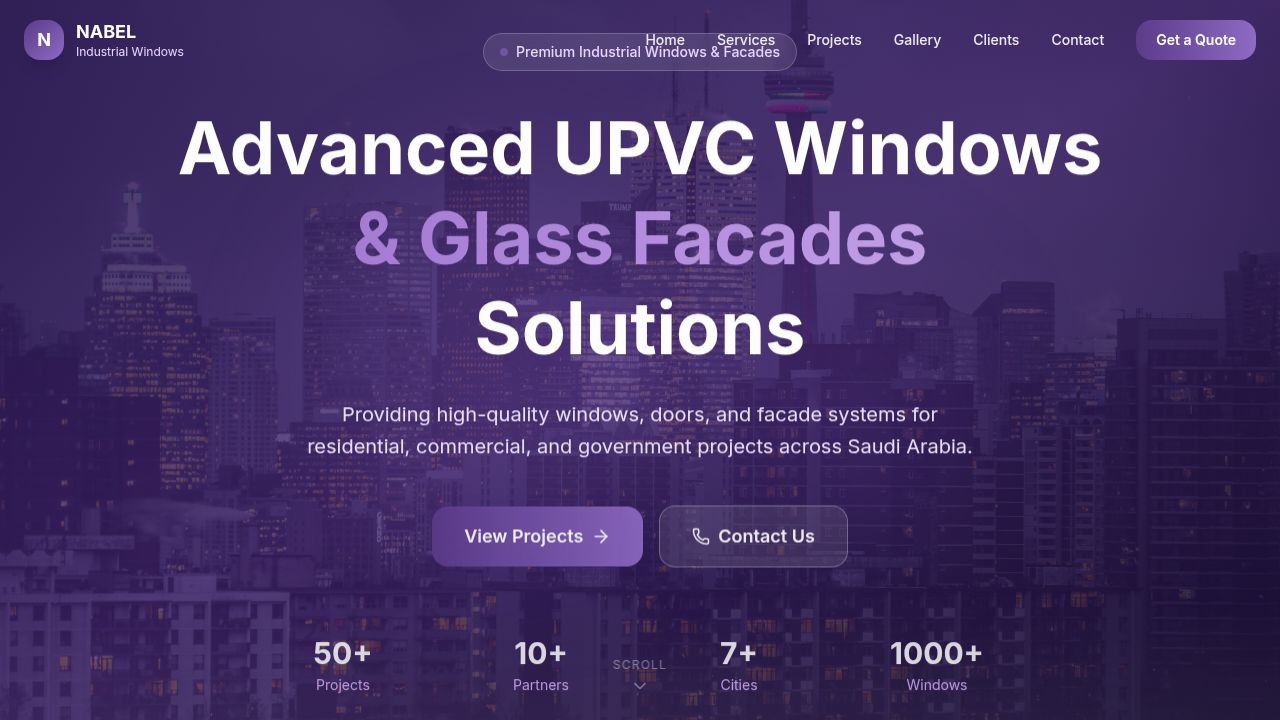
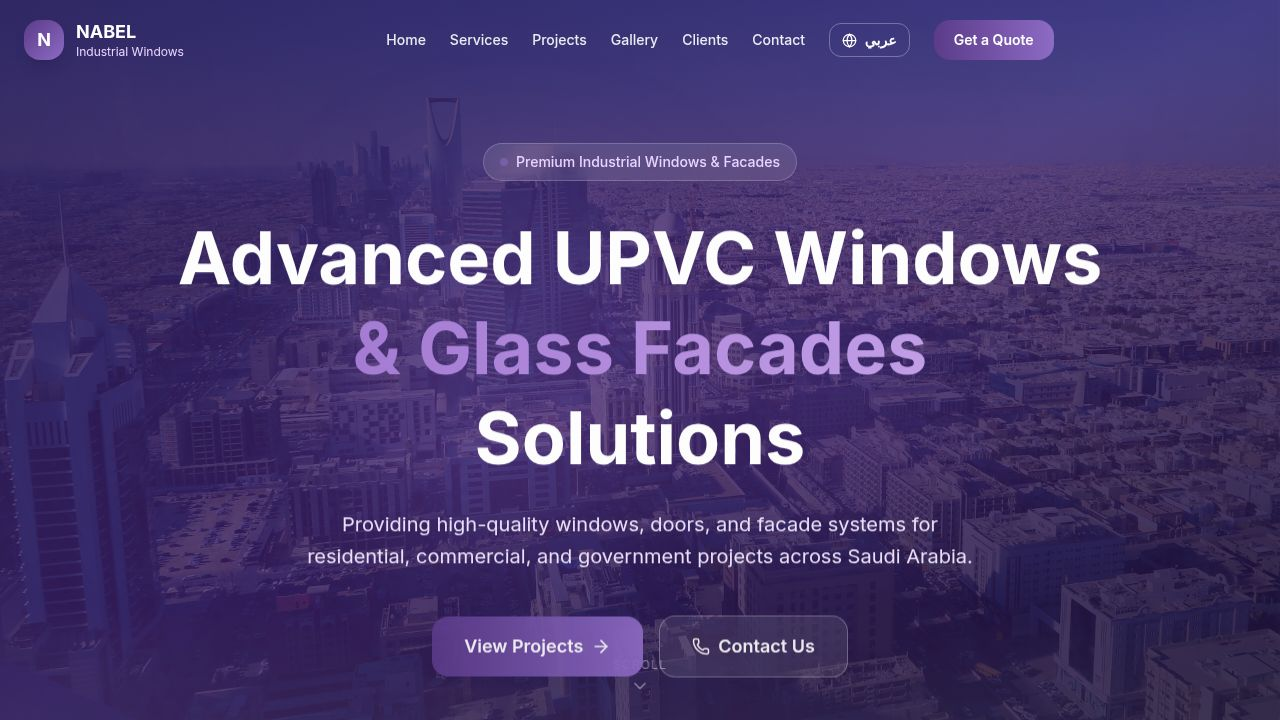
Update website layout and imagery for a cleaner, more professional look
Modify `Navbar` to center navigation links. Update `Hero` section to replace background image, add top padding, and remove number statistics. Remove emojis from city cards in the `Cities` component.

Replit-Commit-Author: Agent
Replit-Commit-Session-Id: 3ab8dfd2-0840-4d14-aedc-f2a046fb2de4
Replit-Commit-Checkpoint-Type: full_checkpoint
Replit-Commit-Event-Id: 5f990adb-1395-4c05-a3d8-47d8188dd6d3
Replit-Commit-Screenshot-Url: https://storage.googleapis.com/screenshot-production-us-central1/0cd7e872-7c5e-4611-9d01-ebfc5d7edf05/3ab8dfd2-0840-4d14-aedc-f2a046fb2de4/EVkSayx
Replit-Helium-Checkpoint-Created: true

diff --git a/artifacts/nabel-landing/src/components/Hero.tsx b/artifacts/nabel-landing/src/components/Hero.tsx
@@ -12,7 +12,7 @@ export default function Hero() {
       <div
         className="absolute inset-0 hero-bg"
         style={{
-          backgroundImage: `url('https://images.unsplash.com/photo-1486325212027-8081e485255e?w=1920&q=80')`,
+          backgroundImage: `url('https://images.unsplash.com/photo-1586724237569-f3d0c1dee8c6?w=1920&q=80')`,
         }}
       />
       <div className="absolute inset-0 bg-gradient-to-br from-[#2D1B55]/90 via-[#3D2068]/80 to-[#1a0f35]/90" />
@@ -20,7 +20,7 @@ export default function Hero() {
       <div className="absolute bottom-1/4 right-1/4 w-64 h-64 bg-[#5B3B8A]/30 rounded-full blur-3xl animate-float delay-500" />
       <div className="absolute inset-x-0 bottom-0 h-32 bg-gradient-to-t from-white/5 to-transparent" />
 
-      <div className="relative z-10 max-w-6xl mx-auto px-6 text-center">
+      <div className="relative z-10 max-w-6xl mx-auto px-6 pt-24 text-center">
         <div className="inline-flex items-center gap-2 px-4 py-2 rounded-full bg-white/10 backdrop-blur-sm border border-white/20 text-purple-200 text-sm font-medium mb-8 animate-fade-up">
           <span className="w-2 h-2 rounded-full bg-[#8E6BC4] animate-pulse" />
           {t("hero.badge")}
@@ -57,19 +57,7 @@ export default function Hero() {
           </a>
         </div>
 
-        <div className="mt-16 grid grid-cols-2 md:grid-cols-4 gap-6 max-w-3xl mx-auto animate-fade-up delay-500">
-          {[
-            { num: "50+", label: t("hero.stat.projects") },
-            { num: "10+", label: t("hero.stat.partners") },
-            { num: "7+",  label: t("hero.stat.cities") },
-            { num: "1000+", label: t("hero.stat.windows") },
-          ].map((s) => (
-            <div key={s.label} className="text-center">
-              <div className="text-3xl font-bold text-white">{s.num}</div>
-              <div className="text-purple-300 text-sm mt-1">{s.label}</div>
-            </div>
-          ))}
-        </div>
+
       </div>
 
       <a

diff --git a/artifacts/nabel-landing/src/components/Cities.tsx b/artifacts/nabel-landing/src/components/Cities.tsx
@@ -3,13 +3,13 @@ import { useIntersectionObserver } from "../hooks/useIntersectionObserver";
 import { useLang } from "../context/LanguageContext";
 
 const cities = [
-  { nameEn: "Riyadh",  nameAr: "الرياض",  count: 18, emoji: "🏙" },
-  { nameEn: "Al-Kharj", nameAr: "الخرج",   count: 8,  emoji: "🏘" },
-  { nameEn: "Jeddah",  nameAr: "جدة",      count: 7,  emoji: "🌊" },
-  { nameEn: "Hail",    nameAr: "حائل",     count: 5,  emoji: "⛰" },
-  { nameEn: "Al-Ahsa", nameAr: "الأحساء",  count: 4,  emoji: "🌴" },
-  { nameEn: "Qassim",  nameAr: "القصيم",   count: 5,  emoji: "🏜" },
-  { nameEn: "Dammam",  nameAr: "الدمام",   count: 6,  emoji: "🏗" },
+  { nameEn: "Riyadh",  nameAr: "الرياض",  count: 18 },
+  { nameEn: "Al-Kharj", nameAr: "الخرج",   count: 8 },
+  { nameEn: "Jeddah",  nameAr: "جدة",      count: 7 },
+  { nameEn: "Hail",    nameAr: "حائل",     count: 5 },
+  { nameEn: "Al-Ahsa", nameAr: "الأحساء",  count: 4 },
+  { nameEn: "Qassim",  nameAr: "القصيم",   count: 5 },
+  { nameEn: "Dammam",  nameAr: "الدمام",   count: 6 },
 ];
 
 export default function Cities() {
@@ -36,7 +36,6 @@ export default function Cities() {
               className="reveal group card-hover glow-border bg-white rounded-2xl p-6 text-center border border-gray-100 shadow-sm cursor-default"
               style={{ transitionDelay: `${i * 0.07}s` }}
             >
-              <div className="text-3xl mb-3">{city.emoji}</div>
               <div className="w-8 h-8 rounded-full bg-gradient-to-br from-[#5B3B8A] to-[#8E6BC4] flex items-center justify-center mx-auto mb-3 group-hover:scale-110 transition-transform">
                 <MapPin size={14} className="text-white" />
               </div>

diff --git a/artifacts/nabel-landing/src/components/Navbar.tsx b/artifacts/nabel-landing/src/components/Navbar.tsx
@@ -46,8 +46,8 @@ export default function Navbar() {
           </div>
         </a>
 
-        {/* Desktop Links */}
-        <div className="hidden md:flex items-center gap-6">
+        {/* Desktop Links — centered */}
+        <div className="hidden md:flex flex-1 items-center justify-center gap-6">
           {links.map((link) => (
             <a
               key={link.href}
